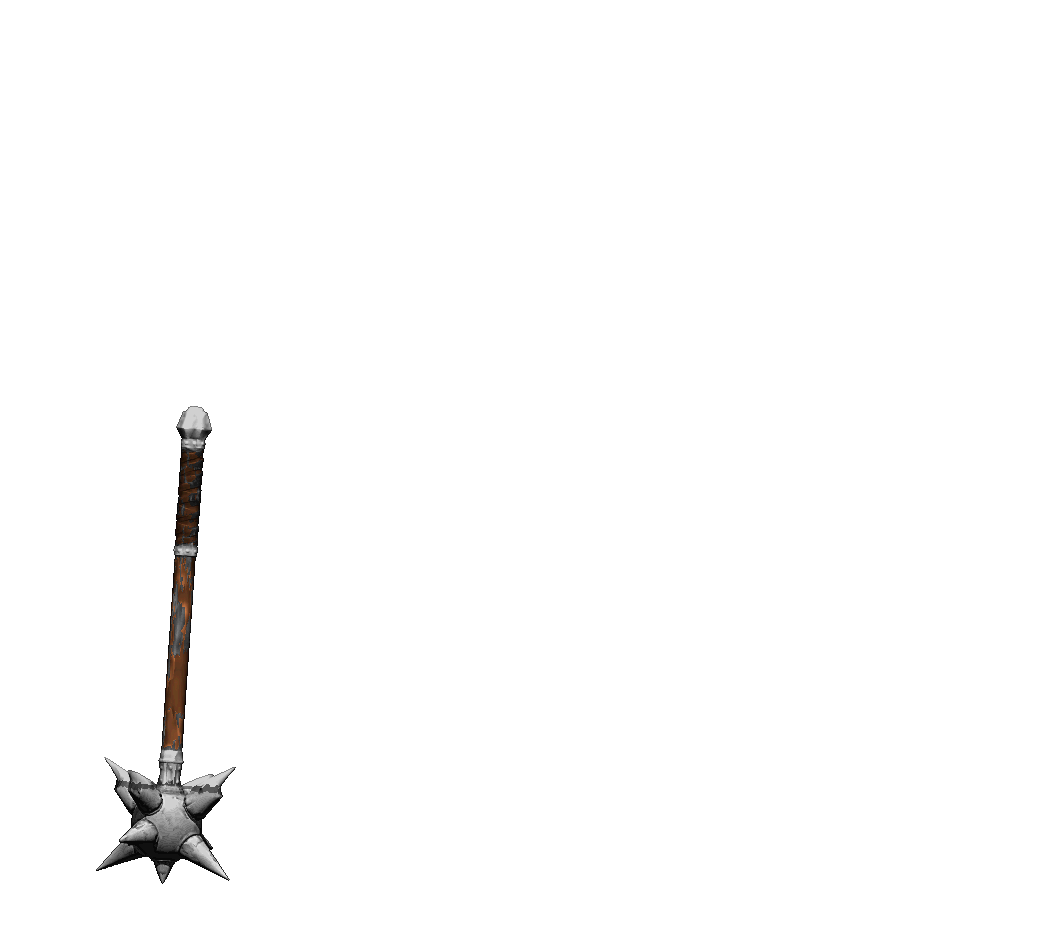
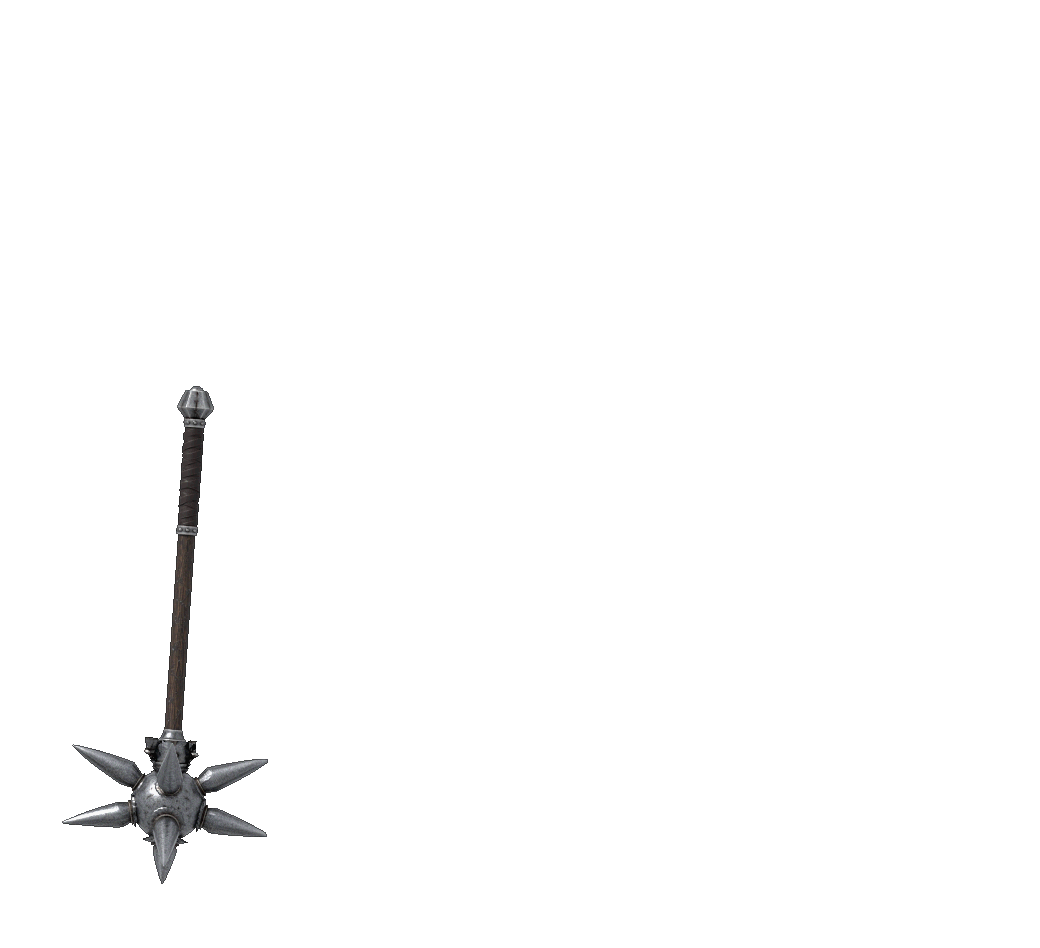
UOModel3D: mace2h paperdoll and art rendered from the original glb (spikes enlarged for readability)
Claude-Session: https://claude.ai/code/session_01CzhEnGTatDmwff3sx4yBA7

Changed region(s): [[0.0615, 0.3977, 0.2462, 0.9177]]

diff --git a/pipeline/uo_render_mace2h_gump_orig.py b/pipeline/uo_render_mace2h_gump_orig.py
@@ -1,0 +1,192 @@
+"""Paperdoll gumps and item art of the two-handed spiked mace made from the ORIGINAL model (the .glb: its full mesh, its own textures and spikes), not from the UO item of the animation
+(decimated, brightened, longer spikes).
+
+    python uo_render_mace2h_gump_orig.py MODEL.glb OUT_DIR [--set NAME=VALUE ...]
+
+Same pictures as uo_render_mace2h_gump.py (gump 260 x 237, 90.5 px/m, the fist of body gump 12 / 13, variants down = the ball on the floor at the feet and up = the fist at the middle of the weapon,
+art on the ground seen from above), but the model is imported from the .glb, scaled so that it is LENGTH m long (butt to the tips of the spikes), turned (shaft along the axis, ball up), and
+rendered with its own PBR materials (Cycles, a sun from the upper left like the UO light, a soft world light, EXPOSURE) at SS x the resolution, then averaged down (alpha: opaque from 50 %),
+a dark rim and the 15-bit colours of the client. The spikes may be enlarged for the gump (SPIKE_LEN, SPIKE_WIDTH, 1 = the original). Writes the same files as the other script (gump_*_{down,up}.png/.bin,
+*_hd.png, *_preview.png, art.png, art_mirror.png).
+"""
+import os, sys
+import numpy as np
+import bpy
+from mathutils import Vector
+
+HERE = os.path.dirname(os.path.abspath(__file__)); sys.path.insert(0, HERE)
+import uo_render_mace2h_gump as G
+import uo_render_weapon_gump as W
+import uo_gump_art as ga
+
+LENGTH = 1.35                # m: the whole weapon, butt to the tips of the spikes (as the animation's item)
+SS = 4                       # gump: rendered SS x larger and averaged down
+SAMPLES = 48                 # Cycles samples per pixel
+EXPOSURE = 0.2               # the glb's textures are dark (the item of the animation multiplies them x 2.1)
+CONTRAST = 1.3               # the render's contrast about the middle grey, a little more than the render: the pictures of the client are crisp
+SUN = 3.2                    # strength of the sun (from the upper left, in front: the UO light), WORLD = the soft light from everywhere
+WORLD = 0.9
+SPIKE_LEN = 1.15             # the spikes' length x this (1 = the original) and
+SPIKE_WIDTH = 2.2            # their width x this: the original's are tiny at 90 px/m
+OUTLINE = 0.5                # the edge pixels (next to transparency) x this
+RIM = 16.0                   # art: the dark rim's grey level
+HD_SCALE = 4                 # the large weapon-only pictures (gump_*_hd.png) at this x the gump's resolution (0 = none)
+
+
+def setup(sc):
+    sc.render.engine = "CYCLES"; sc.cycles.device = "CPU"; sc.cycles.samples = SAMPLES; sc.cycles.use_denoising = False
+    sc.cycles.pixel_filter_type = "BOX"; sc.cycles.filter_width = 0.01; sc.render.dither_intensity = 0.0
+    sc.render.film_transparent = True; sc.view_settings.view_transform = "Standard"; sc.view_settings.exposure = EXPOSURE
+    sc.render.image_settings.file_format = "PNG"; sc.render.image_settings.color_mode = "RGBA"; sc.render.resolution_percentage = 100
+    sc["uo_look"] = 1.0
+    sc.cycles.max_bounces = 6; sc.cycles.diffuse_bounces = 2; sc.cycles.glossy_bounces = 4
+    wd = bpy.data.worlds.new("WG_World"); wd.use_nodes = True; sc.world = wd
+    bg = wd.node_tree.nodes["Background"]; bg.inputs[0].default_value = (0.85, 0.87, 0.9, 1.0); bg.inputs[1].default_value = WORLD
+    ld = bpy.data.lights.new("WG_Sun", "SUN"); ld.energy = SUN; ld.angle = 0.05
+    sun = bpy.data.objects.new("WG_Sun", ld); sc.collection.objects.link(sun)
+    travel = Vector((0.55, 0.45, -0.7)).normalized()                      # the light travels to the right (+X), away from the camera (+Y) and down: it comes from the upper left, in front
+    sun.rotation_euler = Vector((0, 0, -1)).rotation_difference(travel).to_euler()
+    cd = bpy.data.cameras.new("WG_Camera"); cd.type = "ORTHO"; cd.sensor_fit = "HORIZONTAL"
+    cam = bpy.data.objects.new("WG_Camera", cd); sc.collection.objects.link(cam); sc.camera = cam
+    return cam
+
+
+def grade(a, outline=OUTLINE, rim=None):
+    """float RGBA (display values) -> uint8 RGBA: contrast about the mid grey, a dark edge, the client's 15-bit colours; rim: a grey level for the pixels next to the item"""
+    m = a[..., 3] > 0
+    rgb = (a[..., :3] * 255.0 - 128.0) * CONTRAST + 128.0
+    if outline < 1:
+        pad = np.pad(m, 1)
+        edge = m & ~(pad[:-2, 1:-1] & pad[2:, 1:-1] & pad[1:-1, :-2] & pad[1:-1, 2:])
+        rgb[edge] *= outline
+    q = (np.clip(np.round(rgb), 8, 255).astype(np.int32) >> 3) << 3
+    out = np.zeros(a.shape[:2] + (4,), np.uint8)
+    out[..., :3] = np.where(m[..., None], q, 0); out[..., 3] = np.where(m, 255, 0)
+    if rim is not None:
+        pad = np.pad(m, 1)
+        ring = ~m & (pad[:-2, 1:-1] | pad[2:, 1:-1] | pad[1:-1, :-2] | pad[1:-1, 2:])
+        out[ring, :3] = (int(rim) >> 3) << 3; out[ring, 3] = 255
+    return out
+
+
+def main(src, out):
+    bpy.ops.wm.read_factory_settings(use_empty=True)
+    sc = bpy.context.scene
+    bpy.ops.import_scene.gltf(filepath=os.path.abspath(src))
+    objs = [o for o in sc.objects if o.type == "MESH"]
+    bpy.ops.object.select_all(action="DESELECT")
+    for o in objs:
+        o.select_set(True)
+    bpy.context.view_layer.objects.active = objs[0]
+    if len(objs) > 1:
+        bpy.ops.object.join()
+    ob = bpy.context.view_layer.objects.active
+    bpy.ops.object.transform_apply(location=True, rotation=True, scale=True)
+    nv = len(ob.data.vertices)
+    co = np.empty(nv * 3); ob.data.vertices.foreach_get("co", co); V = co.reshape(-1, 3)
+    c = V.mean(0); _, _, vt = np.linalg.svd(V - c, full_matrices=False); t = (V - c) @ vt[0]
+    V = c + (V - c) * (LENGTH / float(t.max() - t.min()))                       # the weapon LENGTH m long
+    hd, butt, s, bb = G.axis_of(V, None)
+    rad = np.linalg.norm((V - butt) - np.outer(s, hd), axis=1)
+    mx = np.zeros(int(s.max() / 0.01) + 2); np.maximum.at(mx, (s / 0.01).astype(int), rad)       # the thickest vertex per cm of the weapon
+    bb = float(np.nonzero((mx > 0.045) & (np.arange(len(mx)) * 0.01 > 0.5))[0][0]) * 0.01        # the ball: the first thick cm beyond the half (the pommel at the butt is thick too)
+    print("OG: %d vertices, weapon %.3f m, ball from %.3f m, axis %s" % (nv, s.max(), bb, np.round(hd, 3).tolist()))
+    ball = s >= bb - 0.005
+    if SPIKE_LEN != 1.0 or SPIKE_WIDTH != 1.0:                                    # the spikes of the original are tiny and thin at 90 px/m: each one longer and wider about its own axis
+        shell = ball & (rad > 0.07) & (rad < 0.115) & (s < bb + 0.25)
+        rb = float(np.median(rad[shell])) if shell.any() else 0.1
+        cb = butt + hd * float(s[shell].mean() if shell.any() else bb + rb)
+        dv = V - cb; dist = np.linalg.norm(dv, axis=1); u = dv / np.maximum(dist, 1e-9)[:, None]
+        axes = []
+        for i in np.nonzero(ball & (dist > rb * 1.5))[0][np.argsort(-dist[ball & (dist > rb * 1.5)])]:
+            if not any(float(u[i] @ ax) > 0.95 for ax in axes):
+                axes.append(u[i].copy())
+        A = np.array(axes) if axes else np.zeros((0, 3))
+        print("OG: %d spikes found" % len(A))
+        if len(A):
+            cs = u @ A.T; k = cs.argmax(1); near = cs.max(1) > 0.93
+            msk = ball & near & (dist > rb)
+            w = np.clip((dist[msk] - rb) / (0.3 * rb), 0, 1)
+            ax = A[k[msk]]; along = (dv[msk] * ax).sum(1); perp = dv[msk] - along[:, None] * ax
+            V[msk] = cb + ax * (along * (1 + (SPIKE_LEN - 1) * w))[:, None] + perp * (1 + (SPIKE_WIDTH - 1) * w)[:, None]
+    part = np.where(ball, 2, 0).astype(np.int32)
+    at = ob.data.attributes.get("uo_flail_part") or ob.data.attributes.new("uo_flail_part", "FLOAT", "POINT")
+    at.data.foreach_set("value", part.astype(np.float32))
+    cam = setup(sc)
+    W.SS = SS
+    from PIL import Image
+    os.makedirs(out, exist_ok=True); tmp = os.path.join(out, "_tmp.png")
+
+    def place(P):
+        ob.data.vertices.foreach_set("co", P.astype(np.float64).ravel()); ob.data.update()
+
+    def put(gender, name, Vp, gx, gy):
+        cx = (W.GW / 2 - gx) / W.PXM; cz = (gy - W.GH / 2) / W.PXM
+        place(Vp)
+        a = W.box_down(W.render(sc, cam, tmp, W.GW * SS, W.GH * SS, W.PXM * SS, cx, cz, False), SS)
+        pp = W.part_pass(sc, cam, ob, tmp, W.GW * SS, W.GH * SS, W.PXM * SS, cx, cz, False)
+        img = grade(a)
+        try:
+            bodyg = ga.read_gump(W.CLIENT, W.BODY[gender])
+        except OSError:
+            bodyg = None
+        if bodyg is not None:                                                  # the haft behind the fist: the body gump's fist shows through
+            bm = np.zeros((W.GH, W.GW), bool); h_, w_ = min(W.GH, bodyg.shape[0]), min(W.GW, bodyg.shape[1]); bm[:h_, :w_] = bodyg[:h_, :w_, 3] > 0
+            yy, xx = np.mgrid[0:W.GH, 0:W.GW]
+            win = (np.abs(xx + 0.5 - gx) <= G.HOLD_CUT[0]) & (yy + 0.5 >= gy - G.HOLD_CUT[1]) & (yy + 0.5 <= gy + G.HOLD_CUT[2])
+            cut = win & bm & (pp == 0) & (img[..., 3] > 0)
+            fist = win & bm
+            bottom = np.where(fist.any(0), W.GH - 1 - np.argmax(fist[::-1], 0), -1)
+            cut &= yy <= bottom[None, :] - G.HOLD_SHOW[gender]
+            img[cut] = 0
+            prev = Image.fromarray(bodyg).convert("RGBA"); prev.alpha_composite(Image.fromarray(img))
+            bg = Image.new("RGBA", prev.size, (70, 70, 70, 255)); bg.alpha_composite(prev)
+            bg.resize((bg.width * 2, bg.height * 2), Image.NEAREST).save(os.path.join(out, "%s_preview.png" % name))
+        Image.fromarray(img).save(os.path.join(out, name + ".png"))
+        if HD_SCALE:
+            k = HD_SCALE; W.SS = 2
+            a2 = W.box_down(W.render(sc, cam, tmp, W.GW * k * 2, W.GH * k * 2, W.PXM * k * 2, cx, cz, False), 2)
+            Image.fromarray(grade(a2, 0.6)).save(os.path.join(out, name + "_hd.png")); W.SS = SS
+        data, extra = ga.encode_gump(img)
+        open(os.path.join(out, name + ".bin"), "wb").write(data)
+        ys, xs = np.nonzero(img[..., 3]); print("OG %s: bbox x %d..%d y %d..%d, %d px" % (name, xs.min(), xs.max(), ys.min(), ys.max(), len(xs)))
+
+    for gender, (gx, gy) in G.GRIP.items():
+        Hf = (G.GY_FEET - gy) / W.PXM
+        th = np.radians(G.TILT_DOWN); d_down = (-np.sin(th), 0.0, -np.cos(th))
+        R = np.array(Vector(hd.tolist()).rotation_difference(Vector(list(d_down))).to_matrix())
+        low = -float(((V - butt) @ R.T)[:, 2].min())                              # the lowest tip below the butt
+        s_g = (low - Hf - G.BALL_FLOOR) / np.cos(th)
+        put(gender, "gump_%s_down" % gender, G.pose(V, butt, hd, s_g, d_down), gx, gy)
+        print("OG %s down: grip %.2f m above the butt, butt %.2f m over the fist" % (gender, s_g, s_g * np.cos(th)))
+        th = np.radians(G.TILT_UP); d_up = (-np.sin(th), 0.0, np.cos(th))
+        put(gender, "gump_%s_up" % gender, G.pose(V, butt, hd, float(s.max()) / 2, d_up), gx, gy)
+
+    d45 = (np.sqrt(0.5), np.sqrt(0.5), 0.0)
+    Va, _ = G.stretch_shaft(V, hd, s, bb, G.ART_STRETCH)
+    R = np.array(Vector(hd.tolist()).rotation_difference(Vector(d45)).to_matrix())
+    P = (Va - butt) @ R.T; P[:, 2] -= P[:, 2].min()
+    place(P)
+    lo, hi = P[:, :2].min(0), P[:, :2].max(0); cc = (lo + hi) / 2
+    w = max(W.ART_W, int(np.ceil((hi[0] - lo[0]) * W.ART_PXM)) + 3); h = int(np.ceil((hi[1] - lo[1]) * W.ART_PXM)) + 3
+    W.SS = SS
+    a = W.box_down(W.render(sc, cam, tmp, w * SS, h * SS, W.ART_PXM * SS, cc[0], cc[1], True), SS)
+    art = grade(a, OUTLINE, RIM)
+    ys, xs = np.nonzero(art[..., 3]); art = art[ys.min():ys.max() + 1]
+    for name, im in (("art", art), ("art_mirror", art[:, ::-1].copy())):
+        Image.fromarray(im).save(os.path.join(out, name + ".png"))
+        open(os.path.join(out, name + ".bin"), "wb").write(ga.encode_art(im))
+    print("OG art: %d x %d" % (art.shape[1], art.shape[0]))
+    if os.path.exists(tmp):
+        os.remove(tmp)
+
+
+if __name__ == "__main__":
+    a = sys.argv[1:]; pos = []; i = 0
+    while i < len(a):
+        if a[i] == "--set":
+            k, v = a[i + 1].split("=", 1); g = globals()
+            g[k] = type(g[k])(v); i += 2
+        else:
+            pos.append(a[i]); i += 1
+    main(pos[0], pos[1])

diff --git a/model/items/mace2h/README.md b/model/items/mace2h/README.md
@@ -28,3 +28,4 @@ What the recipe does (every setting is described in the header of `pipeline/uo_m
 - **Paperdoll gumps and art (`paperdoll/`, `pipeline/uo_render_mace2h_gump.py`):** gump 260 x 237 for the male (body gump 12) and the female (13) body, each in two variants: `down` = the ball DOWN resting on the floor at the height of the feet (the lowest spike at y 220), the haft upright leaning 4 deg out, the butt 0.17 m over the fist; `up` = the ball UP, the fist at the middle of the whole weapon (grip 0.67 m above the butt), the haft leaning 8 deg out, the ball at head height. The wood under the body gump's fist is cut out so the fist holds it; `*_preview.png` = the gump over the client's body gump. Art (backpack icon, art.mul): `art.png` 47 x 44 px, the weapon lying on the ground seen from above (haft along the diagonal), `art_mirror.png` its mirror; `.bin` = the mul entries. Needs the client's Gumpart.mul / Gumpidx.mul (not in the repo).
 
 - **Paperdoll, second pass:** rendered 6 x supersampled (was 3), the spikes 30% shorter on the gump and art (`SPIKE_SCALE` 0.7: at 90 px/m the animation's long spikes were too big), the metal's contrast raised (`METAL_CONTRAST` 1.9 over its local 5 x 5 mean, `METAL_LEVELS` 22 / 100 / 205) so that every spike has a lit and a dark side; `gump_*_hd.png` = the weapon alone rendered at 4 x the gump's resolution (1040 x 948, not quantized to the client's palette, for reference or a larger gump).
+- **Paperdoll, third pass = from the ORIGINAL model (`pipeline/uo_render_mace2h_gump_orig.py MODEL.glb OUT`):** the pictures in `paperdoll/` are now rendered from the Meshy .glb itself (99k vertices, its own PBR textures, Cycles 48 samples, sun from the upper left, 4 x supersampled) instead of the animation's item; same layout/files as before (art 45 x 42). The original's spikes are tiny and thin at 90 px/m, so each of the 12 tip clusters is enlarged about its own axis (`SPIKE_LEN` 1.15, `SPIKE_WIDTH` 2.2), exposure 0.2, contrast 1.3. The previous item-based renders come from `uo_render_mace2h_gump.py`.
